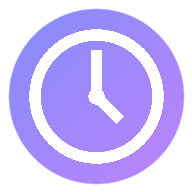
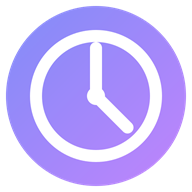
Update timetable with new schedule, faculty assignments, rooms, and PWA cache v12

diff --git a/script.js b/script.js
@@ -6,39 +6,39 @@ const timetable = [
             {
                 code: 'CSN355',
                 name: 'Cyber Crime & Investigation',
-                type: 'Lecture-1',
+                type: 'Lecture',
                 time: '09:00-09:50',
-                location: 'Block - VISVESVARAYA VERA5F 503 Lecture Hall 3',
-                instructor: 'No Faculty',
+                location: 'VISH503 (Visvesvaraya 503)',
+                instructor: 'Mr. Arjun Singh',
                 bucket: 'Discipline Elective',
                 credits: 3
             },
             {
                 code: 'CSN304',
                 name: 'Artificial Intelligence',
-                type: 'Lecture-1',
+                type: 'Lecture',
                 time: '10:00-10:50',
-                location: 'Block - VISVESVARAYA VERA5F 503 Lecture Hall 3',
-                instructor: 'Neha Singh',
+                location: 'VISH503 (Visvesvaraya 503)',
+                instructor: 'Ms. Neha Singh',
                 bucket: 'Discipline Core',
                 credits: 4
             },
             {
                 code: 'CSN352',
                 name: 'Number Theory and Cryptology',
-                type: 'Practical-1',
+                type: 'Lab (P1)',
                 time: '11:00-12:50',
-                location: 'Block - VEDANTA VED4F 423 Computer Lab 1',
-                instructor: 'Kapil Dev Sharma',
+                location: 'VE423 (Vedanta 423 Lab)',
+                instructor: 'Mr. Kapil Dev Sharma',
                 bucket: 'Discipline Elective',
                 credits: 3
             },
             {
                 code: 'PSYN386',
-                name: 'Health Psychology',
-                type: 'Studio-1',
+                name: 'Health Psychology (Free Elective)',
+                type: 'Studio',
                 time: '14:00-14:50',
-                location: 'Block - VISVESVARAYA VERA4F 408 Lecture Hall 8',
+                location: 'VISVESVARAYA 408 (Lecture Hall 8)',
                 instructor: 'Mony Singh',
                 bucket: 'Free Elective',
                 credits: 3
@@ -51,39 +51,39 @@ const timetable = [
             {
                 code: 'CSN302',
                 name: 'Advanced Java Programming',
-                type: 'Lecture-1',
+                type: 'Lecture',
                 time: '09:00-09:50',
-                location: 'Block - VEDANTA VEDSF 203 LH 2 Room',
-                instructor: 'Kirti Gupta',
+                location: 'VE203 (Vedanta 203)',
+                instructor: 'Dr. Kirti Gupta',
                 bucket: 'Discipline Core',
                 credits: 4
             },
             {
                 code: 'CSN304',
                 name: 'Artificial Intelligence',
-                type: 'Lecture-2',
+                type: 'Lecture',
                 time: '10:00-10:50',
-                location: 'Block - VEDANTA VEDSF 203 LH 2 Room',
-                instructor: 'Neha Singh',
+                location: 'VE203 (Vedanta 203)',
+                instructor: 'Ms. Neha Singh',
                 bucket: 'Discipline Core',
                 credits: 4
             },
             {
                 code: 'CSN302',
                 name: 'Advanced Java Programming',
-                type: 'Practical-1',
+                type: 'Lab (P1)',
                 time: '11:00-12:50',
-                location: 'Block - VEDANTA VED4F 424 Computer Lab 2',
-                instructor: 'Kirti Gupta',
+                location: 'VE424 (Vedanta 424 Lab)',
+                instructor: 'Dr. Kirti Gupta',
                 bucket: 'Discipline Core',
                 credits: 4
             },
             {
                 code: 'PSYN386',
-                name: 'Health Psychology',
-                type: 'Studio-1',
+                name: 'Health Psychology (Free Elective)',
+                type: 'Studio',
                 time: '14:00-14:50',
-                location: 'Block - VISVESVARAYA VERA4F 408 Lecture Hall 8',
+                location: 'VISVESVARAYA 408 (Lecture Hall 8)',
                 instructor: 'Mony Singh',
                 bucket: 'Free Elective',
                 credits: 3
@@ -91,10 +91,10 @@ const timetable = [
             {
                 code: 'CSN355',
                 name: 'Cyber Crime & Investigation',
-                type: 'Practical-1',
+                type: 'Lab (P1)',
                 time: '15:00-16:50',
-                location: 'Block - VEDANTA VED5F 512 Computer Lab 7',
-                instructor: 'No Faculty',
+                location: 'VE512 (Vedanta 512 Lab)',
+                instructor: 'Mr. Arjun Singh',
                 bucket: 'Discipline Elective',
                 credits: 3
             }
@@ -106,40 +106,50 @@ const timetable = [
             {
                 code: 'CSN303',
                 name: 'Computer Networks',
-                type: 'Practical-1',
+                type: 'Lab (P1)',
                 time: '09:00-10:50',
-                location: 'Block - VEDANTA VED4F 425 Computer Lab 3',
-                instructor: 'Vasu Bhatia',
+                location: 'VE425 (Vedanta 425 Lab)',
+                instructor: 'Mr. Vasu Bhatia',
                 bucket: 'Discipline Core',
                 credits: 4
             },
             {
                 code: 'CSN352',
                 name: 'Number Theory and Cryptology',
-                type: 'Lecture-1',
+                type: 'Lecture',
                 time: '11:00-11:50',
-                location: 'Block - VEDANTA VEDSF 202 LH 1 Room',
-                instructor: 'Kapil Dev Sharma',
+                location: 'VE202 (Vedanta 202)',
+                instructor: 'Mr. Kapil Dev Sharma',
                 bucket: 'Discipline Elective',
                 credits: 3
             },
             {
                 code: 'CDC201',
                 name: 'Aptitude and Soft Skills',
-                type: 'Lecture-1',
+                type: 'Lecture',
                 time: '12:00-12:50',
-                location: 'Block - VEDANTA VEDSF 202 LH 1 Room',
+                location: 'VE202 (Vedanta 202)',
                 instructor: 'Parul Kalia',
                 bucket: 'Value Added',
                 credits: 2
             },
             {
+                code: 'PSYN386',
+                name: 'Health Psychology (Free Elective)',
+                type: 'Studio',
+                time: '14:00-14:50',
+                location: 'VISVESVARAYA 408 (Lecture Hall 8)',
+                instructor: 'Mony Singh',
+                bucket: 'Free Elective',
+                credits: 3
+            },
+            {
                 code: 'CSN303',
                 name: 'Computer Networks',
-                type: 'Lecture-1',
+                type: 'Lecture',
                 time: '15:00-15:50',
-                location: 'Block - VEDANTA VEDSF 203 LH 2 Room',
-                instructor: 'Vasu Bhatia',
+                location: 'VE203 (Vedanta 203)',
+                instructor: 'Mr. Vasu Bhatia',
                 bucket: 'Discipline Core',
                 credits: 4
             }
@@ -151,39 +161,39 @@ const timetable = [
             {
                 code: 'CSN302',
                 name: 'Advanced Java Programming',
-                type: 'Lecture-2',
+                type: 'Lecture',
                 time: '09:00-09:50',
-                location: 'Block - VEDANTA VEDSF 226 LH 04 Room',
-                instructor: 'Kirti Gupta',
+                location: 'VE226 (Vedanta 226)',
+                instructor: 'Dr. Kirti Gupta',
                 bucket: 'Discipline Core',
                 credits: 4
             },
             {
                 code: 'CSN355',
                 name: 'Cyber Crime & Investigation',
-                type: 'Lecture-2',
+                type: 'Lecture',
                 time: '10:00-10:50',
-                location: 'Block - VEDANTA VEDTF 303 LH 2 Room',
-                instructor: 'No Faculty',
+                location: 'VE303 (Vedanta 303)',
+                instructor: 'Mr. Arjun Singh',
                 bucket: 'Discipline Elective',
                 credits: 3
             },
             {
                 code: 'CSN304',
                 name: 'Artificial Intelligence',
-                type: 'Practical-1',
+                type: 'Lab (P1)',
                 time: '11:00-12:50',
-                location: 'Block - VEDANTA VEDSF 226 LH 04 Room',
-                instructor: 'Neha Singh',
+                location: 'VE226 (Vedanta 226)',
+                instructor: 'Ms. Neha Singh',
                 bucket: 'Discipline Core',
                 credits: 4
             },
             {
                 code: 'PSYN386',
-                name: 'Health Psychology',
-                type: 'Studio-1',
+                name: 'Health Psychology (Free Elective)',
+                type: 'Studio',
                 time: '14:00-14:50',
-                location: 'Block - VISVESVARAYA VERA4F 408 Lecture Hall 8',
+                location: 'VISVESVARAYA 408 (Lecture Hall 8)',
                 instructor: 'Mony Singh',
                 bucket: 'Free Elective',
                 credits: 3
@@ -191,20 +201,20 @@ const timetable = [
             {
                 code: 'CSN303',
                 name: 'Computer Networks',
-                type: 'Lecture-2',
+                type: 'Lecture',
                 time: '15:00-15:50',
-                location: 'Block - VEDANTA VEDSF 203 LH 2 Room',
-                instructor: 'Vasu Bhatia',
+                location: 'VE203 (Vedanta 203)',
+                instructor: 'Mr. Vasu Bhatia',
                 bucket: 'Discipline Core',
                 credits: 4
             },
             {
                 code: 'CSN352',
                 name: 'Number Theory and Cryptology',
-                type: 'Lecture-2',
+                type: 'Lecture',
                 time: '16:00-16:50',
-                location: 'Block - VEDANTA VED4F 427 LH5',
-                instructor: 'Kapil Dev Sharma',
+                location: 'VE427 (Vedanta 427)',
+                instructor: 'Mr. Kapil Dev Sharma',
                 bucket: 'Discipline Elective',
                 credits: 3
             }
@@ -216,9 +226,9 @@ const timetable = [
             {
                 code: 'CDC201',
                 name: 'Aptitude and Soft Skills',
-                type: 'Lecture-2',
+                type: 'Lecture',
                 time: '09:00-09:50',
-                location: 'Block - VISVESVARAYA VERA4F 401 Lecture Hall 1',
+                location: 'VISH401 (Visvesvaraya 401)',
                 instructor: 'Parul Kalia',
                 bucket: 'Value Added',
                 credits: 2
@@ -226,30 +236,30 @@ const timetable = [
             {
                 code: 'CSN302',
                 name: 'Advanced Java Programming',
-                type: 'Lecture-3',
+                type: 'Lecture',
                 time: '10:00-10:50',
-                location: 'Block - VISVESVARAYA VERA5F 502 Lecture Hall 2',
-                instructor: 'Kirti Gupta',
+                location: 'VISH502 (Visvesvaraya 502)',
+                instructor: 'Dr. Kirti Gupta',
                 bucket: 'Discipline Core',
                 credits: 4
             },
             {
                 code: 'CSN304',
                 name: 'Artificial Intelligence',
-                type: 'Lecture-3',
+                type: 'Lecture',
                 time: '11:00-11:50',
-                location: 'Block - VEDANTA VEDSF 203 LH 2 Room',
-                instructor: 'Neha Singh',
+                location: 'VE203 (Vedanta 203)',
+                instructor: 'Ms. Neha Singh',
                 bucket: 'Discipline Core',
                 credits: 4
             },
             {
                 code: 'CSN303',
                 name: 'Computer Networks',
-                type: 'Lecture-3',
+                type: 'Lecture',
                 time: '12:00-12:50',
-                location: 'Block - VEDANTA VEDSF 203 LH 2 Room',
-                instructor: 'Vasu Bhatia',
+                location: 'VE203 (Vedanta 203)',
+                instructor: 'Mr. Vasu Bhatia',
                 bucket: 'Discipline Core',
                 credits: 4
             }

diff --git a/sw.js b/sw.js
@@ -1,4 +1,4 @@
-const CACHE_NAME = 'timetable-v9';
+const CACHE_NAME = 'timetable-v12';
 const ASSETS = [
     './',
     './index.html',
